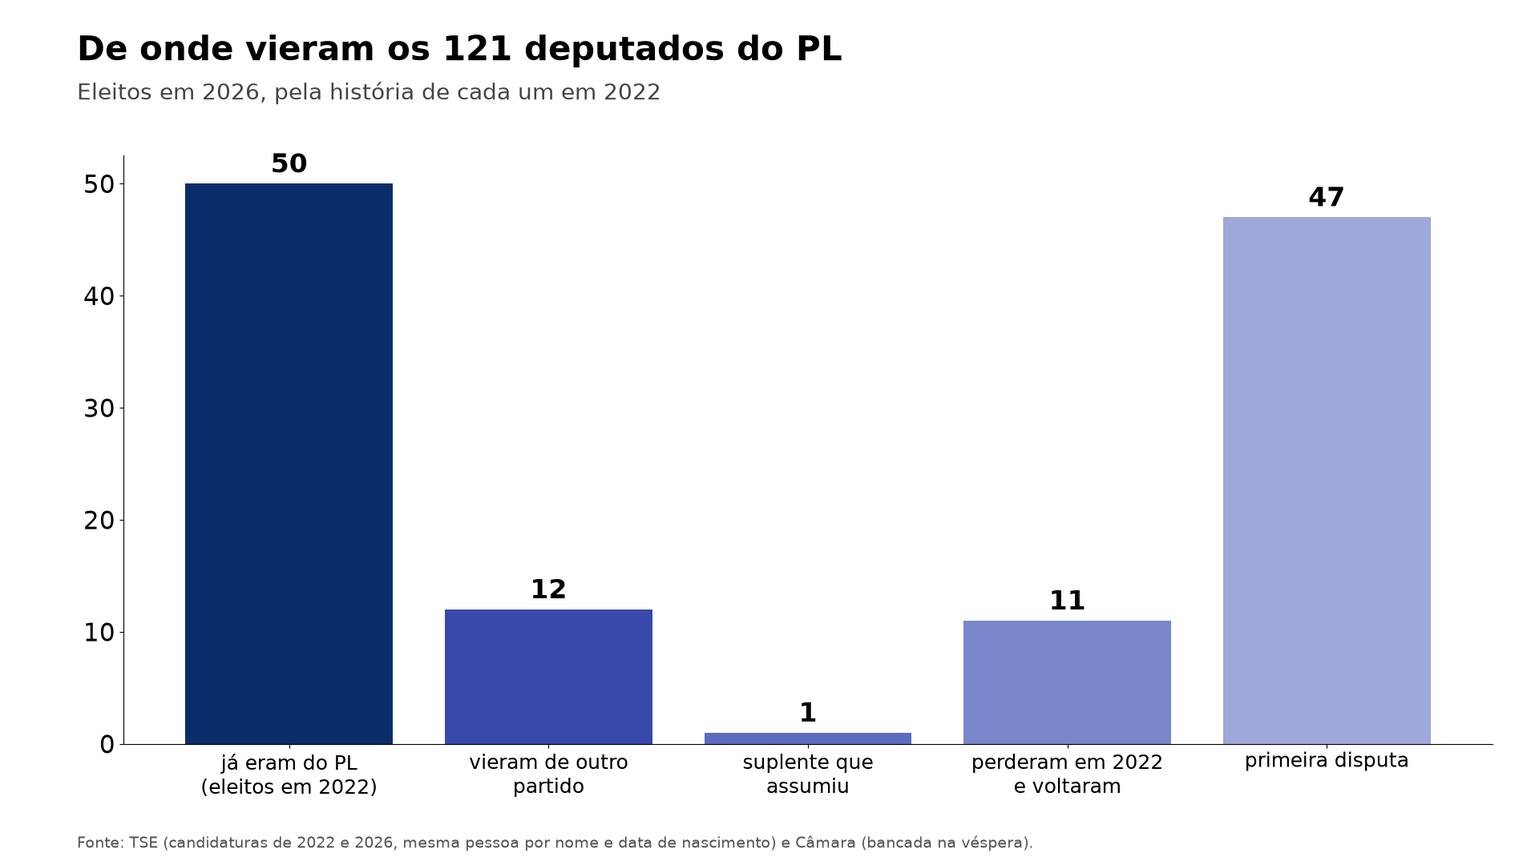
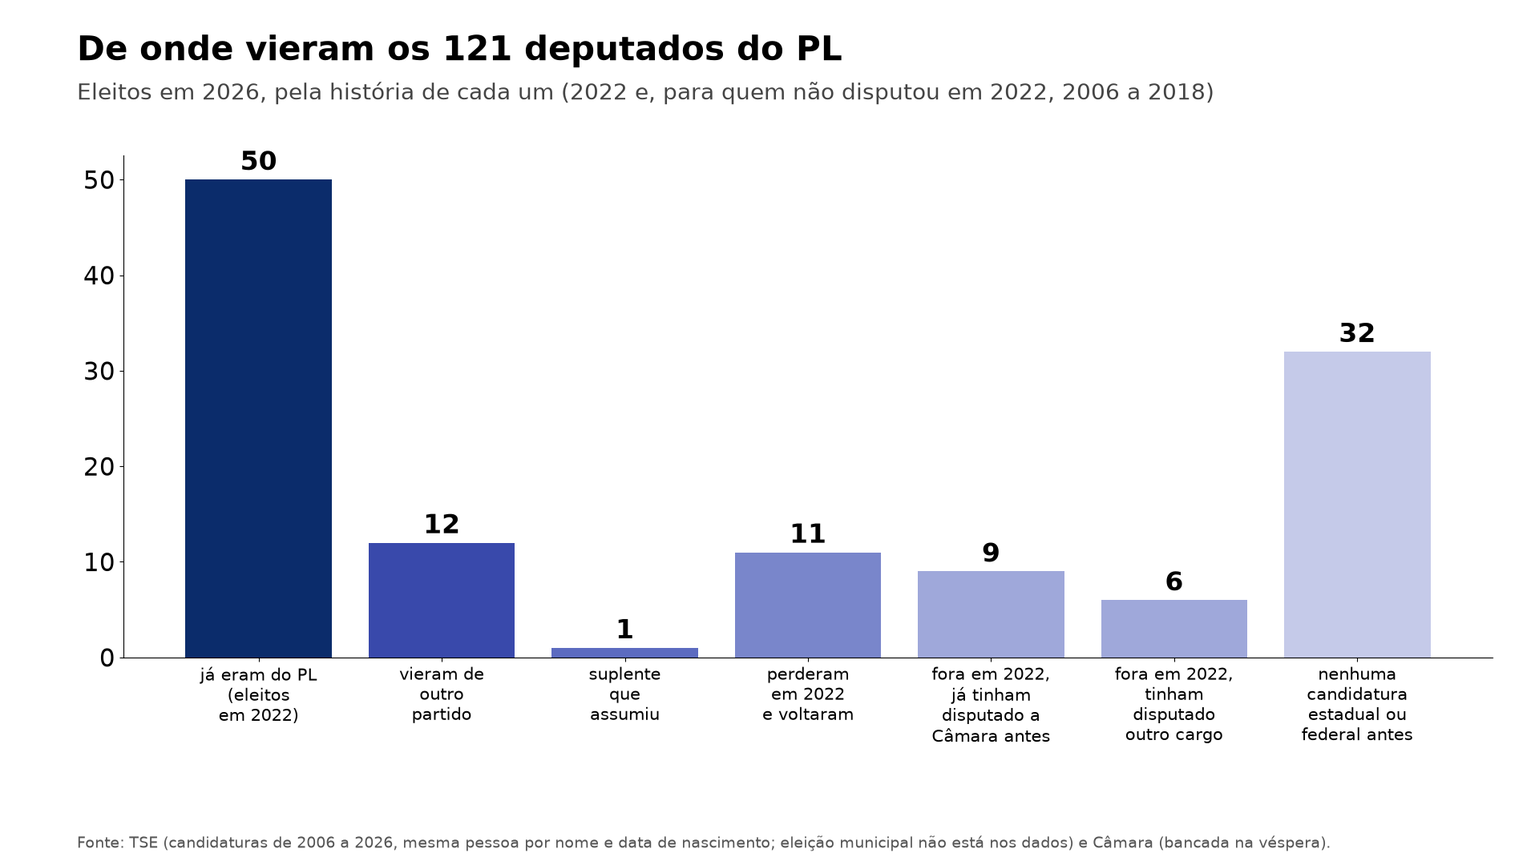
fix: os 47 eleitos do PL que nao disputaram a Camara em 2022 nao sao todos estreantes
- analise-11: historico de 2006 a 2018 para quem nao disputou em 2022: 32 sem candidatura estadual ou federal, 9 ja tinham disputado deputado federal (ex-deputados entre eles), 6 outro cargo; eleicao municipal nao esta nos dados
- leitura da IA, relatorio, resumo e grafico 25 refeitos; intervalos de corte sem travessao
- revisao adversarial 15/15; 10 testes

diff --git a/ferramentas/analise-8-veredito.py b/ferramentas/analise-8-veredito.py
@@ -162,11 +162,11 @@ def main() -> None:
 
 **Governos (alto):** a direita declarada (todos do PL) ganhou {ge[2026]['direita']} governos, contra {ge[2022]['direita']} em 2022; a centro-direita {ge[2026]['centro-direita']}, o centro {ge[2026]['centro']} e a esquerda {ge[2026]['esquerda']}; {ge[2026]['em 2o turno']} vão a 2º turno. Pelo apoio declarado na eleição presidencial (CNN Brasil), os {apo['Flavio']['governos']} governadores eleitos que apoiam Flávio governarão {f1(apo['Flavio']['pct_eleitorado'])}% do eleitorado, e os {apo['Lula']['governos']} que apoiam Lula, {f1(apo['Lula']['pct_eleitorado'])}%.
 
-**Como o PL chegou a {E1['partido_de_bolsonaro']['2026 (PL)']} (alto para a descrição):** dos {E1['partido_de_bolsonaro']['2026 (PL)']} eleitos, {o121.get('eleito em 2022 pelo PL', 0)} já tinham sido eleitos pelo PL em 2022, {o121.get('eleito em 2022 por outro partido e foi para o PL', 0)} foram eleitos em 2022 por outro partido e mudaram para o PL antes da eleição ({mig_txt}), {o121.get('disputou deputado federal em 2022 e não se elegeu', 0)} tinham disputado em 2022 sem se eleger, {o121.get('assumiu o mandato depois de 2022 (suplente) e se elegeu pelo PL', 0)} assumiu como suplente e {o121.get('primeira disputa para deputado federal (desde 2022)', 0)} disputaram pela primeira vez. Dos 98 deputados que o PL tinha na véspera, {d98.get('reeleito deputado pelo PL', 0)} se reelegeram, **{d98.get('disputou senador: eleito', 0)} foram eleitos senadores** ({', '.join(sen_pl)}), {d98.get('disputou governador: eleito', 0)} governador, {d98.get('disputou deputado estadual: eleito', 0)} deputados estaduais, {d98.get('disputou deputado e não se elegeu', 0)} perderam a reeleição e {d98.get('disputou senador: não eleito', 0)} perderam a disputa ao Senado. Os votos nominais do PL para deputado foram de {n(E5['pl_votos_nominais']['2022'])} para {n(E5['pl_votos_nominais']['2026'])}; os dez mais votados do partido somaram {n(E5['pl_top10_votos_2026'])}.
+**Como o PL chegou a {E1['partido_de_bolsonaro']['2026 (PL)']} (alto para a descrição):** dos {E1['partido_de_bolsonaro']['2026 (PL)']} eleitos, {o121.get('eleito em 2022 pelo PL', 0)} já tinham sido eleitos pelo PL em 2022, {o121.get('eleito em 2022 por outro partido e foi para o PL', 0)} foram eleitos em 2022 por outro partido e mudaram para o PL antes da eleição ({mig_txt}), {o121.get('disputou deputado federal em 2022 e não se elegeu', 0)} tinham disputado em 2022 sem se eleger, {o121.get('assumiu o mandato depois de 2022 (suplente) e se elegeu pelo PL', 0)} assumiu como suplente e {o121.get('não disputou a Câmara em 2022: já tinha disputado deputado federal antes', 0) + o121.get('não disputou a Câmara em 2022: já tinha disputado outro cargo estadual ou federal', 0) + o121.get('não disputou a Câmara em 2022: nenhuma candidatura estadual ou federal de 2006 a 2018', 0)} não disputaram a Câmara em 2022: {o121.get('não disputou a Câmara em 2022: nenhuma candidatura estadual ou federal de 2006 a 2018', 0)} sem nenhuma candidatura estadual ou federal de 2006 a 2018 (eleição municipal não está nos dados), {o121.get('não disputou a Câmara em 2022: já tinha disputado deputado federal antes', 0)} que já tinham disputado deputado federal antes (alguns ex-deputados) e {o121.get('não disputou a Câmara em 2022: já tinha disputado outro cargo estadual ou federal', 0)} que tinham disputado outro cargo. Dos 98 deputados que o PL tinha na véspera, {d98.get('reeleito deputado pelo PL', 0)} se reelegeram, **{d98.get('disputou senador: eleito', 0)} foram eleitos senadores** ({', '.join(sen_pl)}), {d98.get('disputou governador: eleito', 0)} governador, {d98.get('disputou deputado estadual: eleito', 0)} deputados estaduais, {d98.get('disputou deputado e não se elegeu', 0)} perderam a reeleição e {d98.get('disputou senador: não eleito', 0)} perderam a disputa ao Senado. Os votos nominais do PL para deputado foram de {n(E5['pl_votos_nominais']['2022'])} para {n(E5['pl_votos_nominais']['2026'])}; os dez mais votados do partido somaram {n(E5['pl_top10_votos_2026'])}.
 
 **A leitura da IA (opinião, confiança alta para a direção, média para o tamanho):** o voto que o centro e a centro-direita perderam para deputado ({f1(cv[2022]['centro-direita'] + cv[2022]['centro'] - cv[2026]['centro-direita'] - cv[2026]['centro'])} pontos) tem o mesmo tamanho do que a direita declarada ganhou ({f1(cv[2026]['direita'] - cv[2022]['direita'])} pontos), a maior parte no PL ({f1(pl['2026']['pct_votos'] - pl['2022']['pct_votos'])} pontos); o dado é por partido e não mostra quem trocou de voto, um a um; a esquerda somada ficou do mesmo tamanho em votos ({f1(esqv[2022])}% → {f1(esqv[2026])}%) e perdeu {cc[2022]['esquerda'] + cc[2022]['centro-esquerda'] - cc[2026]['esquerda'] - cc[2026]['centro-esquerda']} cadeiras, quase todas da centro-esquerda. As duas leituras do mesmo resultado convivem: pela R1, que junta o centrão à direita, "a direita" mal mexeu; pela autodeclaração, a direita declarada cresceu {cc[2026]['direita'] - cc[2022]['direita']} deputados e {s27['direita'] - sh['direita']} senadores (contando o Senado de hoje), e o centro encolheu. A consequência prática está no Senado: a direita declarada e a centro-direita juntas vão de {sh['direita'] + sh['centro-direita']} senadores hoje para {s27['direita'] + s27['centro-direita']} (49 na conta por senador do Poder360), no limite de uma PEC e a cinco ou seis votos de condenar um ministro do STF; na Câmara passam da maioria absoluta, o que não acontecia com os eleitos de 2022. **Campo não é bloco de votação**: a conta é o teto do que cada grupo alcança se votar unido, não uma previsão.
 
-**O que acompanha o crescimento do PL (descrição, não causa; opinião, confiança média):** (1) o partido trouxe deputados de outras siglas antes da eleição e lançou {o121.get('primeira disputa para deputado federal (desde 2022)', 0)} nomes novos que se elegeram; (2) usou a própria bancada para disputar o Senado, e {d98.get('disputou senador: eleito', 0)} deputados viraram senadores; (3) puxadores com votação muito acima da média (Nikolas Ferreira e Lucas Pavanato, cada um com mais de 3 milhões); (4) o voto no PL andou junto com o voto em Flávio para presidente (H8). **O que não dá para separar** é quanto disso veio dos casos da campanha (Banco Master, STF, INSS, condenação de Bolsonaro): faltam medições de opinião perto de cada caso (H6).
+**O que acompanha o crescimento do PL (descrição, não causa; opinião, confiança média):** (1) o partido trouxe deputados de outras siglas antes da eleição e elegeu {o121.get('não disputou a Câmara em 2022: já tinha disputado deputado federal antes', 0) + o121.get('não disputou a Câmara em 2022: já tinha disputado outro cargo estadual ou federal', 0) + o121.get('não disputou a Câmara em 2022: nenhuma candidatura estadual ou federal de 2006 a 2018', 0)} nomes que não tinham disputado a Câmara em 2022, {o121.get('não disputou a Câmara em 2022: nenhuma candidatura estadual ou federal de 2006 a 2018', 0)} deles sem candidatura estadual ou federal anterior; (2) usou a própria bancada para disputar o Senado, e {d98.get('disputou senador: eleito', 0)} deputados viraram senadores; (3) puxadores com votação muito acima da média (Nikolas Ferreira e Lucas Pavanato, cada um com mais de 3 milhões); (4) o voto no PL andou junto com o voto em Flávio para presidente (H8). **O que não dá para separar** é quanto disso veio dos casos da campanha (Banco Master, STF, INSS, condenação de Bolsonaro): faltam medições de opinião perto de cada caso (H6).
 
 ---
 
@@ -174,7 +174,7 @@ def main() -> None:
 
 **Base de 2022:** o arquivo atual do TSE (PL {pl['2022']['cadeiras']}, PT 69). Matérias da época deram PL 99 e PT 68; a diferença é compatível com a troca de sete mandatos decidida pelo STF sobre as sobras (fonte `conjur-sete-deputados`), mas não foi verificada cadeira a cadeira.
 
-**Os fatos (alto):** o PL passou de {pl['2022']['cadeiras']} para {pl['2026']['cadeiras']} deputados ({f1(pl['2022']['pct_votos'])}% → {f1(pl['2026']['pct_votos'])}% dos votos). A federação PT/PCdoB/PV passou de {fedpt[0]} para {fedpt[1]}. Pela R1, a direita foi de {dir_c[2022]} para {dir_c[2026]} cadeiras ({f1(dir_p[2022])}% → {f1(dir_p[2026])}%) e a esquerda de {esq_c[2022]} para {esq_c[2026]}; em votos, a direita ficou em {f1(dir_v[2022])}% → {f1(dir_v[2026])}% e a esquerda em {f1(esq_v[2022])}% → {f1(esq_v[2026])}%. Com os cortes da escala deslocados em meio ponto, a direita vai de {int(s35[2022])} a {int(s35[2026])} (corte 3,5–5,5) ou de {int(s45[2022])} a {int(s45[2026])} (corte 4,5–6,5), e a esquerda de {int(e35[2022])} a {int(e35[2026])} ou de {int(e45[2022])} a {int(e45[2026])}.
+**Os fatos (alto):** o PL passou de {pl['2022']['cadeiras']} para {pl['2026']['cadeiras']} deputados ({f1(pl['2022']['pct_votos'])}% → {f1(pl['2026']['pct_votos'])}% dos votos). A federação PT/PCdoB/PV passou de {fedpt[0]} para {fedpt[1]}. Pela R1, a direita foi de {dir_c[2022]} para {dir_c[2026]} cadeiras ({f1(dir_p[2022])}% → {f1(dir_p[2026])}%) e a esquerda de {esq_c[2022]} para {esq_c[2026]}; em votos, a direita ficou em {f1(dir_v[2022])}% → {f1(dir_v[2026])}% e a esquerda em {f1(esq_v[2022])}% → {f1(esq_v[2026])}%. Com os cortes da escala deslocados em meio ponto, a direita vai de {int(s35[2022])} a {int(s35[2026])} (corte 3,5 a 5,5) ou de {int(s45[2022])} a {int(s45[2026])} (corte 4,5 a 6,5), e a esquerda de {int(e35[2022])} a {int(e35[2026])} ou de {int(e45[2022])} a {int(e45[2026])}.
 
 **Pela R2 (voto no plenário):** a bancada que votou majoritariamente contra a orientação do governo (40% ou menos de concordância) foi de {r2c[2022]['oposicao']} para {r2c[2026]['oposicao']} cadeiras (com cortes de 65% e 45%, de {R['a1']['r2_sensibilidade'][2]['oposicao']} para {R['a1']['r2_sensibilidade'][3]['oposicao']}). Essa é a medida que mais se aproxima de "o campo que se opõe ao governo cresceu", e ela cresceu. Duas ressalvas: em 2026 os deputados novos herdam a classe mediana do partido (os de 2022 só entram pelo próprio histórico), e o corte de 70% põe quase todo o centrão como governista.
 

diff --git a/ferramentas/analise-10-animacao.py b/ferramentas/analise-10-animacao.py
@@ -327,16 +327,17 @@ def grafico_escada(nome, casa, tab, limiares, total, rodape):
 def grafico_pl():
     o = pd.read_csv(RES / "e5_pl_121_resumo.csv")
     ordem = ["eleito em 2022 pelo PL", "eleito em 2022 por outro partido e foi para o PL", "assumiu o mandato depois de 2022 (suplente) e se elegeu pelo PL",
-             "disputou deputado federal em 2022 e não se elegeu", "primeira disputa para deputado federal (desde 2022)"]
-    rot = ["já eram do PL\n(eleitos em 2022)", "vieram de outro\npartido", "suplente que\nassumiu", "perderam em 2022\ne voltaram", "primeira disputa"]
+             "disputou deputado federal em 2022 e não se elegeu", "não disputou a Câmara em 2022: já tinha disputado deputado federal antes", "não disputou a Câmara em 2022: já tinha disputado outro cargo estadual ou federal", "não disputou a Câmara em 2022: nenhuma candidatura estadual ou federal de 2006 a 2018"]
+    rot = ["já eram do PL\n(eleitos\nem 2022)", "vieram de\noutro\npartido", "suplente\nque\nassumiu", "perderam\nem 2022\ne voltaram", "fora em 2022,\njá tinham\ndisputado a\nCâmara antes", "fora em 2022,\ntinham\ndisputado\noutro cargo", "nenhuma\ncandidatura\nestadual ou\nfederal antes"]
     v = [int(o.set_index("origem").cadeiras.get(k, 0)) for k in ordem]
-    fig, ax = figura_barras("25", "De onde vieram os 121 deputados do PL", "Eleitos em 2026, pela história de cada um em 2022",
-                            "Fonte: TSE (candidaturas de 2022 e 2026, mesma pessoa por nome e data de nascimento) e Câmara (bancada na véspera).")
-    bars = ax.bar(range(len(v)), v, color=[PL_COR, "#3949AB", "#5C6BC0", "#7986CB", "#9FA8DA"])
+    fig, ax = figura_barras("25", "De onde vieram os 121 deputados do PL", "Eleitos em 2026, pela história de cada um (2022 e, para quem não disputou em 2022, 2006 a 2018)",
+                            "Fonte: TSE (candidaturas de 2006 a 2026, mesma pessoa por nome e data de nascimento; eleição municipal não está nos dados) e Câmara (bancada na véspera).")
+    bars = ax.bar(range(len(v)), v, color=[PL_COR, "#3949AB", "#5C6BC0", "#7986CB", "#9FA8DA", "#9FA8DA", "#C5CAE9"])
     for b, n in zip(bars, v):
         ax.text(b.get_x() + b.get_width() / 2, n + 1, str(n), ha="center", fontsize=24, fontweight="bold")
     ax.set_xticks(range(len(v)))
-    ax.set_xticklabels(rot, fontsize=18)
+    ax.set_xticklabels(rot, fontsize=15)
+    fig.subplots_adjust(bottom=0.24)
     fig.savefig(OUT / "25_pl_de_onde_vieram_os_121.png")
     plt.close(fig)
 

diff --git a/ferramentas/analise-9-relatorio.py b/ferramentas/analise-9-relatorio.py
@@ -297,7 +297,7 @@ Todos estão na §15 do [`docs/PRE_REGISTRO.md`](docs/PRE_REGISTRO.md), com data
 
 - **Câmara:** a direita declarada (PL, Novo, Missão) foi de {R['e1']['camara_cadeiras']['2022']['direita']} para **{R['e1']['camara_cadeiras']['2026']['direita']}** deputados; a centro-direita (PP, Republicanos, União, PRD) de {R['e1']['camara_cadeiras']['2022']['centro-direita']} para {R['e1']['camara_cadeiras']['2026']['centro-direita']}; o centro de {R['e1']['camara_cadeiras']['2022']['centro']} para {R['e1']['camara_cadeiras']['2026']['centro']}; esquerda e centro-esquerda somadas de {R['e1']['camara_cadeiras']['2022']['esquerda'] + R['e1']['camara_cadeiras']['2022']['centro-esquerda']} para {R['e1']['camara_cadeiras']['2026']['esquerda'] + R['e1']['camara_cadeiras']['2026']['centro-esquerda']}. Direita e centro-direita juntas: **{R['e2']['camara_2026'][2]['direita_mais_centro_direita']}**, acima da maioria absoluta (257).
 - **Senado em 2027:** direita declarada **{E3['senado_2027_partido_atual']['direita']}** (hoje {E3['senado_em_exercicio_out2026']['direita']}); com a centro-direita, **{E3['senado_limiares_2027'][3]['direita_mais_centro_direita']}** (49 na conta por senador do Poder360): no limite da PEC (49) e a 5 ou 6 votos da condenação de ministro do STF num impeachment (54).
-- **PL:** 50 dos 121 já eram do PL em 2022, 12 vieram de outros partidos e 47 estrearam; 10 deputados do PL viraram senadores.
+- **PL:** {R['e5']['pl_121_origem'].get('eleito em 2022 pelo PL', 0)} dos 121 já eram do PL em 2022, {R['e5']['pl_121_origem'].get('eleito em 2022 por outro partido e foi para o PL', 0)} vieram de outros partidos e {sum(v for k, v in R['e5']['pl_121_origem'].items() if k.startswith('não disputou a Câmara em 2022'))} não tinham disputado a Câmara em 2022; 10 deputados do PL viraram senadores.
 
 ## O que mudou na Câmara
 

diff --git a/ferramentas/analise-11-pl-e-blocos.py b/ferramentas/analise-11-pl-e-blocos.py
@@ -300,6 +300,24 @@ def main() -> None:
         orig.append({"nome": r.nome, "uf": r.uf, "votos_2026": int(r.votos), "origem": o,
                      "partido_2022": h["sig_2022"] if h else "", "votos_2022": h["votos_2022"] if h else np.nan, "partido_vespera": v or ""})
     o = pd.DataFrame(orig)
+    # quem não disputou a Câmara em 2022: o histórico de 2006 a 2018 (só eleições gerais; eleição municipal não está nos dados)
+    antigos = {ano: indice_pessoas(candidaturas(ano)) for ano in (2006, 2010, 2014, 2018)}
+    sq_por_nome = {(r.nome, r.uf): r.sq for r in el_pl26.itertuples()}
+    hist_txt = []
+    for r in o.itertuples():
+        if r.origem != "primeira disputa para deputado federal (desde 2022)":
+            hist_txt.append("")
+            continue
+        nasc, nomes = pessoa26(sq_por_nome[(r.nome, r.uf)])
+        hist = [(ano, x.DS_CARGO.title(), str(x.DS_SIT_TOT_TURNO)) for ano, idx in antigos.items() for x in achar(idx, nasc, nomes)]
+        if any(h[1].upper().startswith("DEPUTADO FEDERAL") for h in hist):
+            o.loc[r.Index, "origem"] = "não disputou a Câmara em 2022: já tinha disputado deputado federal antes"
+        elif hist:
+            o.loc[r.Index, "origem"] = "não disputou a Câmara em 2022: já tinha disputado outro cargo estadual ou federal"
+        else:
+            o.loc[r.Index, "origem"] = "não disputou a Câmara em 2022: nenhuma candidatura estadual ou federal de 2006 a 2018"
+        hist_txt.append("; ".join(f"{a} {c} ({s})" for a, c, s in hist))
+    o["candidaturas_2006_2018"] = hist_txt
     tabela("e5_pl_121_de_onde_veio_cada_um", o.sort_values(["origem", "votos_2026"], ascending=[True, False]))
     resumo_o = o.groupby("origem").agg(cadeiras=("nome", "size"), votos_2026=("votos_2026", "sum")).reset_index()
     tabela("e5_pl_121_resumo", resumo_o)

diff --git a/docs/LEITURA_DA_IA.md b/docs/LEITURA_DA_IA.md
@@ -38,11 +38,11 @@
 
 **Governos (alto):** a direita declarada (todos do PL) ganhou 5 governos, contra 3 em 2022; a centro-direita 5, o centro 7 e a esquerda 3; 7 vão a 2º turno. Pelo apoio declarado na eleição presidencial (CNN Brasil), os 10 governadores eleitos que apoiam Flávio governarão 54,5% do eleitorado, e os 5 que apoiam Lula, 16,5%.
 
-**Como o PL chegou a 121 (alto para a descrição):** dos 121 eleitos, 50 já tinham sido eleitos pelo PL em 2022, 12 foram eleitos em 2022 por outro partido e mudaram para o PL antes da eleição (3 do União, 2 do Avante, 2 do MDB, 2 do PSD, 1 do Podemos, 1 do PRD, 1 do Republicanos), 11 tinham disputado em 2022 sem se eleger, 1 assumiu como suplente e 47 disputaram pela primeira vez. Dos 98 deputados que o PL tinha na véspera, 63 se reelegeram, **10 foram eleitos senadores** (Gustavo Gayer, Dr. Fernando Máximo, Nicoletti, Caroline de Toni, Bia Kicis, Filipe Barros, Carlos Jordy, Sanderson, Domingos Sávio, José Medeiros), 1 governador, 3 deputados estaduais, 14 perderam a reeleição e 5 perderam a disputa ao Senado. Os votos nominais do PL para deputado foram de 17.395.485 para 25.201.522; os dez mais votados do partido somaram 9.524.626.
+**Como o PL chegou a 121 (alto para a descrição):** dos 121 eleitos, 50 já tinham sido eleitos pelo PL em 2022, 12 foram eleitos em 2022 por outro partido e mudaram para o PL antes da eleição (3 do União, 2 do Avante, 2 do MDB, 2 do PSD, 1 do Podemos, 1 do PRD, 1 do Republicanos), 11 tinham disputado em 2022 sem se eleger, 1 assumiu como suplente e 47 não disputaram a Câmara em 2022: 32 sem nenhuma candidatura estadual ou federal de 2006 a 2018 (eleição municipal não está nos dados), 9 que já tinham disputado deputado federal antes (alguns ex-deputados) e 6 que tinham disputado outro cargo. Dos 98 deputados que o PL tinha na véspera, 63 se reelegeram, **10 foram eleitos senadores** (Gustavo Gayer, Dr. Fernando Máximo, Nicoletti, Caroline de Toni, Bia Kicis, Filipe Barros, Carlos Jordy, Sanderson, Domingos Sávio, José Medeiros), 1 governador, 3 deputados estaduais, 14 perderam a reeleição e 5 perderam a disputa ao Senado. Os votos nominais do PL para deputado foram de 17.395.485 para 25.201.522; os dez mais votados do partido somaram 9.524.626.
 
 **A leitura da IA (opinião, confiança alta para a direção, média para o tamanho):** o voto que o centro e a centro-direita perderam para deputado (8,1 pontos) tem o mesmo tamanho do que a direita declarada ganhou (8,4 pontos), a maior parte no PL (6,1 pontos); o dado é por partido e não mostra quem trocou de voto, um a um; a esquerda somada ficou do mesmo tamanho em votos (26,5% → 26,3%) e perdeu 4 cadeiras, quase todas da centro-esquerda. As duas leituras do mesmo resultado convivem: pela R1, que junta o centrão à direita, "a direita" mal mexeu; pela autodeclaração, a direita declarada cresceu 31 deputados e 16 senadores (contando o Senado de hoje), e o centro encolheu. A consequência prática está no Senado: a direita declarada e a centro-direita juntas vão de 32 senadores hoje para 48 (49 na conta por senador do Poder360), no limite de uma PEC e a cinco ou seis votos de condenar um ministro do STF; na Câmara passam da maioria absoluta, o que não acontecia com os eleitos de 2022. **Campo não é bloco de votação**: a conta é o teto do que cada grupo alcança se votar unido, não uma previsão.
 
-**O que acompanha o crescimento do PL (descrição, não causa; opinião, confiança média):** (1) o partido trouxe deputados de outras siglas antes da eleição e lançou 47 nomes novos que se elegeram; (2) usou a própria bancada para disputar o Senado, e 10 deputados viraram senadores; (3) puxadores com votação muito acima da média (Nikolas Ferreira e Lucas Pavanato, cada um com mais de 3 milhões); (4) o voto no PL andou junto com o voto em Flávio para presidente (H8). **O que não dá para separar** é quanto disso veio dos casos da campanha (Banco Master, STF, INSS, condenação de Bolsonaro): faltam medições de opinião perto de cada caso (H6).
+**O que acompanha o crescimento do PL (descrição, não causa; opinião, confiança média):** (1) o partido trouxe deputados de outras siglas antes da eleição e elegeu 47 nomes que não tinham disputado a Câmara em 2022, 32 deles sem candidatura estadual ou federal anterior; (2) usou a própria bancada para disputar o Senado, e 10 deputados viraram senadores; (3) puxadores com votação muito acima da média (Nikolas Ferreira e Lucas Pavanato, cada um com mais de 3 milhões); (4) o voto no PL andou junto com o voto em Flávio para presidente (H8). **O que não dá para separar** é quanto disso veio dos casos da campanha (Banco Master, STF, INSS, condenação de Bolsonaro): faltam medições de opinião perto de cada caso (H6).
 
 ---
 
@@ -50,7 +50,7 @@
 
 **Base de 2022:** o arquivo atual do TSE (PL 98, PT 69). Matérias da época deram PL 99 e PT 68; a diferença é compatível com a troca de sete mandatos decidida pelo STF sobre as sobras (fonte `conjur-sete-deputados`), mas não foi verificada cadeira a cadeira.
 
-**Os fatos (alto):** o PL passou de 98 para 121 deputados (16,6% → 22,7% dos votos). A federação PT/PCdoB/PV passou de 82 para 88. Pela R1, a direita foi de 380 para 388 cadeiras (74,1% → 75,6%) e a esquerda de 105 para 101; em votos, a direita ficou em 72,0% → 72,3% e a esquerda em 21,1% → 20,5%. Com os cortes da escala deslocados em meio ponto, a direita vai de 380 a 388 (corte 3,5–5,5) ou de 368 a 381 (corte 4,5–6,5), e a esquerda de 89 a 95 ou de 120 a 116.
+**Os fatos (alto):** o PL passou de 98 para 121 deputados (16,6% → 22,7% dos votos). A federação PT/PCdoB/PV passou de 82 para 88. Pela R1, a direita foi de 380 para 388 cadeiras (74,1% → 75,6%) e a esquerda de 105 para 101; em votos, a direita ficou em 72,0% → 72,3% e a esquerda em 21,1% → 20,5%. Com os cortes da escala deslocados em meio ponto, a direita vai de 380 a 388 (corte 3,5 a 5,5) ou de 368 a 381 (corte 4,5 a 6,5), e a esquerda de 89 a 95 ou de 120 a 116.
 
 **Pela R2 (voto no plenário):** a bancada que votou majoritariamente contra a orientação do governo (40% ou menos de concordância) foi de 104 para 131 cadeiras (com cortes de 65% e 45%, de 109 para 134). Essa é a medida que mais se aproxima de "o campo que se opõe ao governo cresceu", e ela cresceu. Duas ressalvas: em 2026 os deputados novos herdam a classe mediana do partido (os de 2022 só entram pelo próprio histórico), e o corte de 70% põe quase todo o centrão como governista.
 

diff --git a/RELATORIO.md b/RELATORIO.md
@@ -67,7 +67,9 @@ Apoio declarado dos governadores eleitos na eleição presidencial (CNN Brasil) 
 | disputou deputado federal em 2022 e não se elegeu | 11 | 761057 |
 | eleito em 2022 pelo PL | 50 | 10172534 |
 | eleito em 2022 por outro partido e foi para o PL | 12 | 1596409 |
-| primeira disputa para deputado federal (desde 2022) | 47 | 7931624 |
+| não disputou a Câmara em 2022: já tinha disputado deputado federal antes | 9 | 797684 |
+| não disputou a Câmara em 2022: já tinha disputado outro cargo estadual ou federal | 6 | 595811 |
+| não disputou a Câmara em 2022: nenhuma candidatura estadual ou federal de 2006 a 2018 | 32 | 6538129 |
 
 Os 98 deputados do PL na véspera: disputou deputado e não se elegeu 14, disputou deputado estadual: eleito 3, disputou governador: eleito 1, disputou senador: eleito 10, disputou senador: não eleito 5, não disputou nenhum cargo em 2026 2, reeleito deputado pelo PL 63.
 

diff --git a/RESUMO_SIMPLES.md b/RESUMO_SIMPLES.md
@@ -6,7 +6,7 @@
 
 - **Câmara:** a direita declarada (PL, Novo, Missão) foi de 101 para **132** deputados; a centro-direita (PP, Republicanos, União, PRD) de 149 para 133; o centro de 135 para 124; esquerda e centro-esquerda somadas de 128 para 124. Direita e centro-direita juntas: **265**, acima da maioria absoluta (257).
 - **Senado em 2027:** direita declarada **31** (hoje 15); com a centro-direita, **48** (49 na conta por senador do Poder360): no limite da PEC (49) e a 5 ou 6 votos da condenação de ministro do STF num impeachment (54).
-- **PL:** 50 dos 121 já eram do PL em 2022, 12 vieram de outros partidos e 47 estrearam; 10 deputados do PL viraram senadores.
+- **PL:** 50 dos 121 já eram do PL em 2022, 12 vieram de outros partidos e 47 não tinham disputado a Câmara em 2022; 10 deputados do PL viraram senadores.
 
 ## O que mudou na Câmara
 
